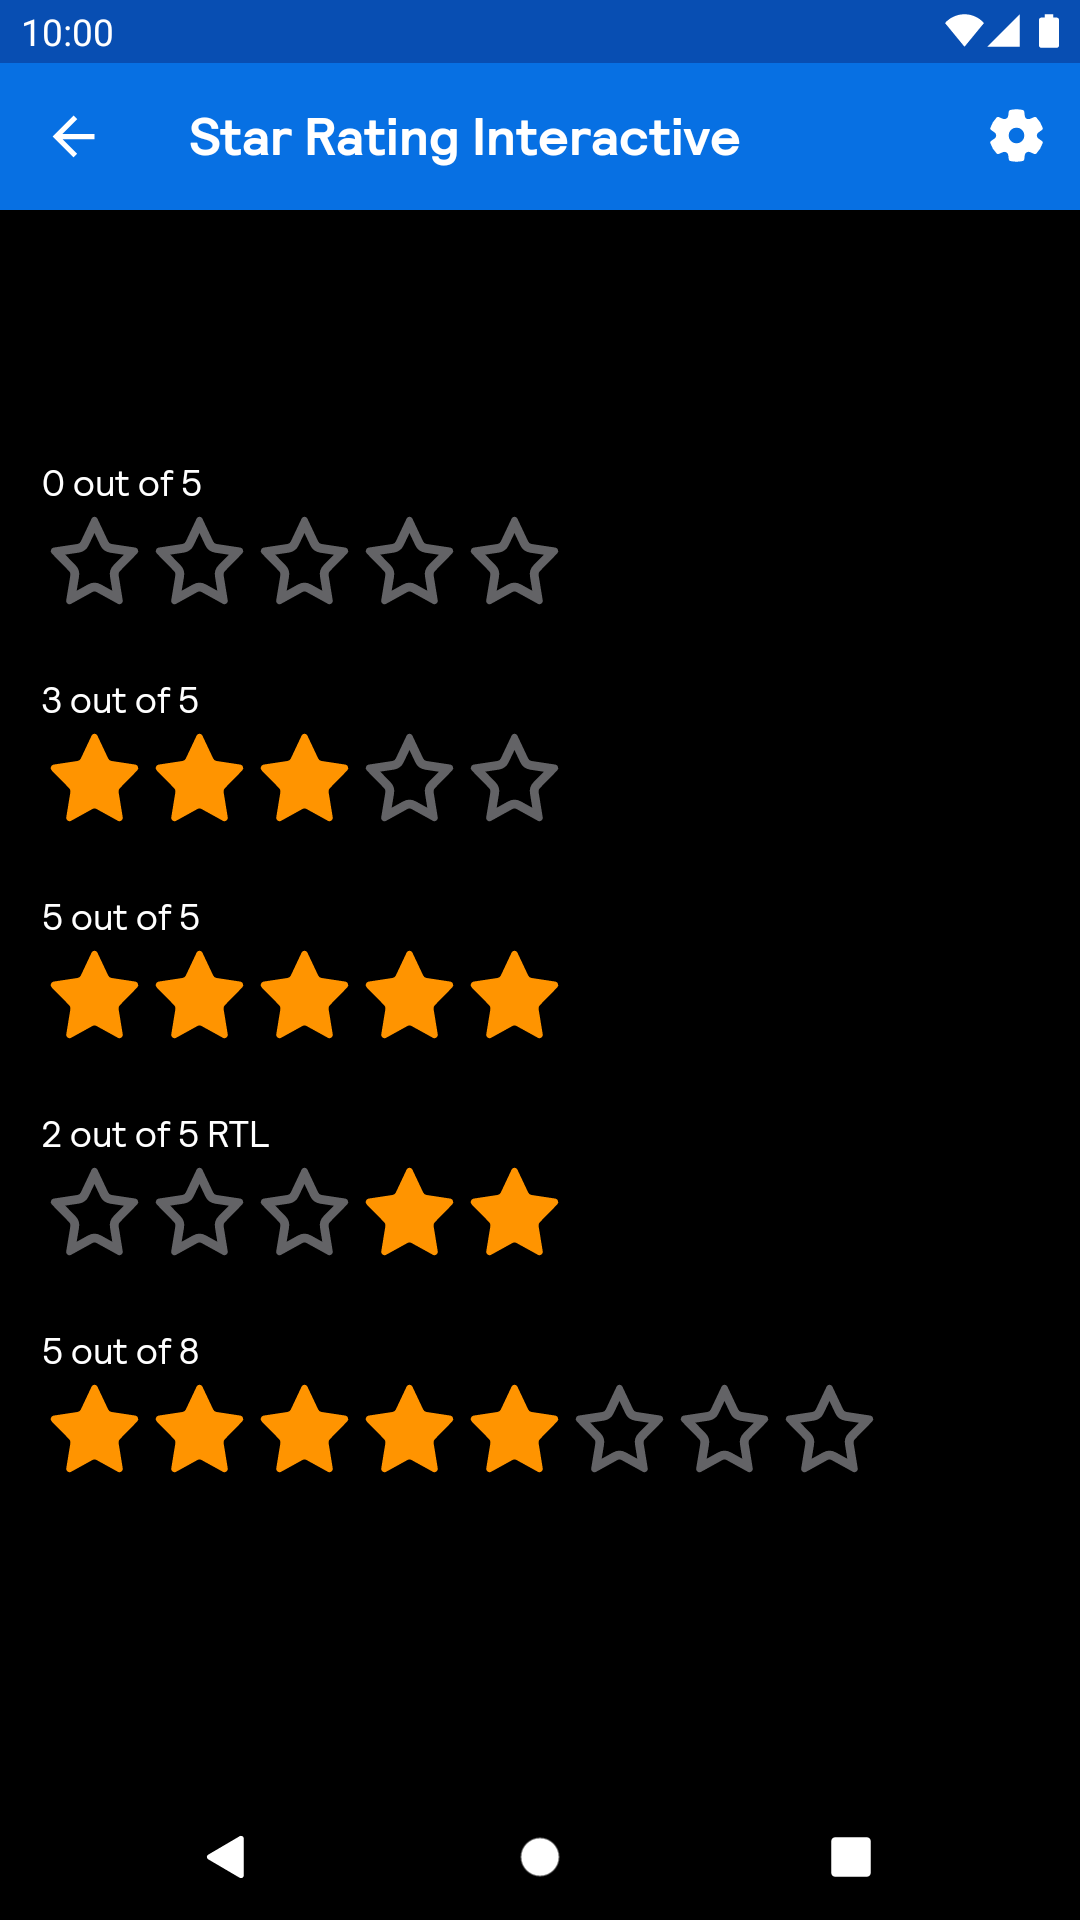
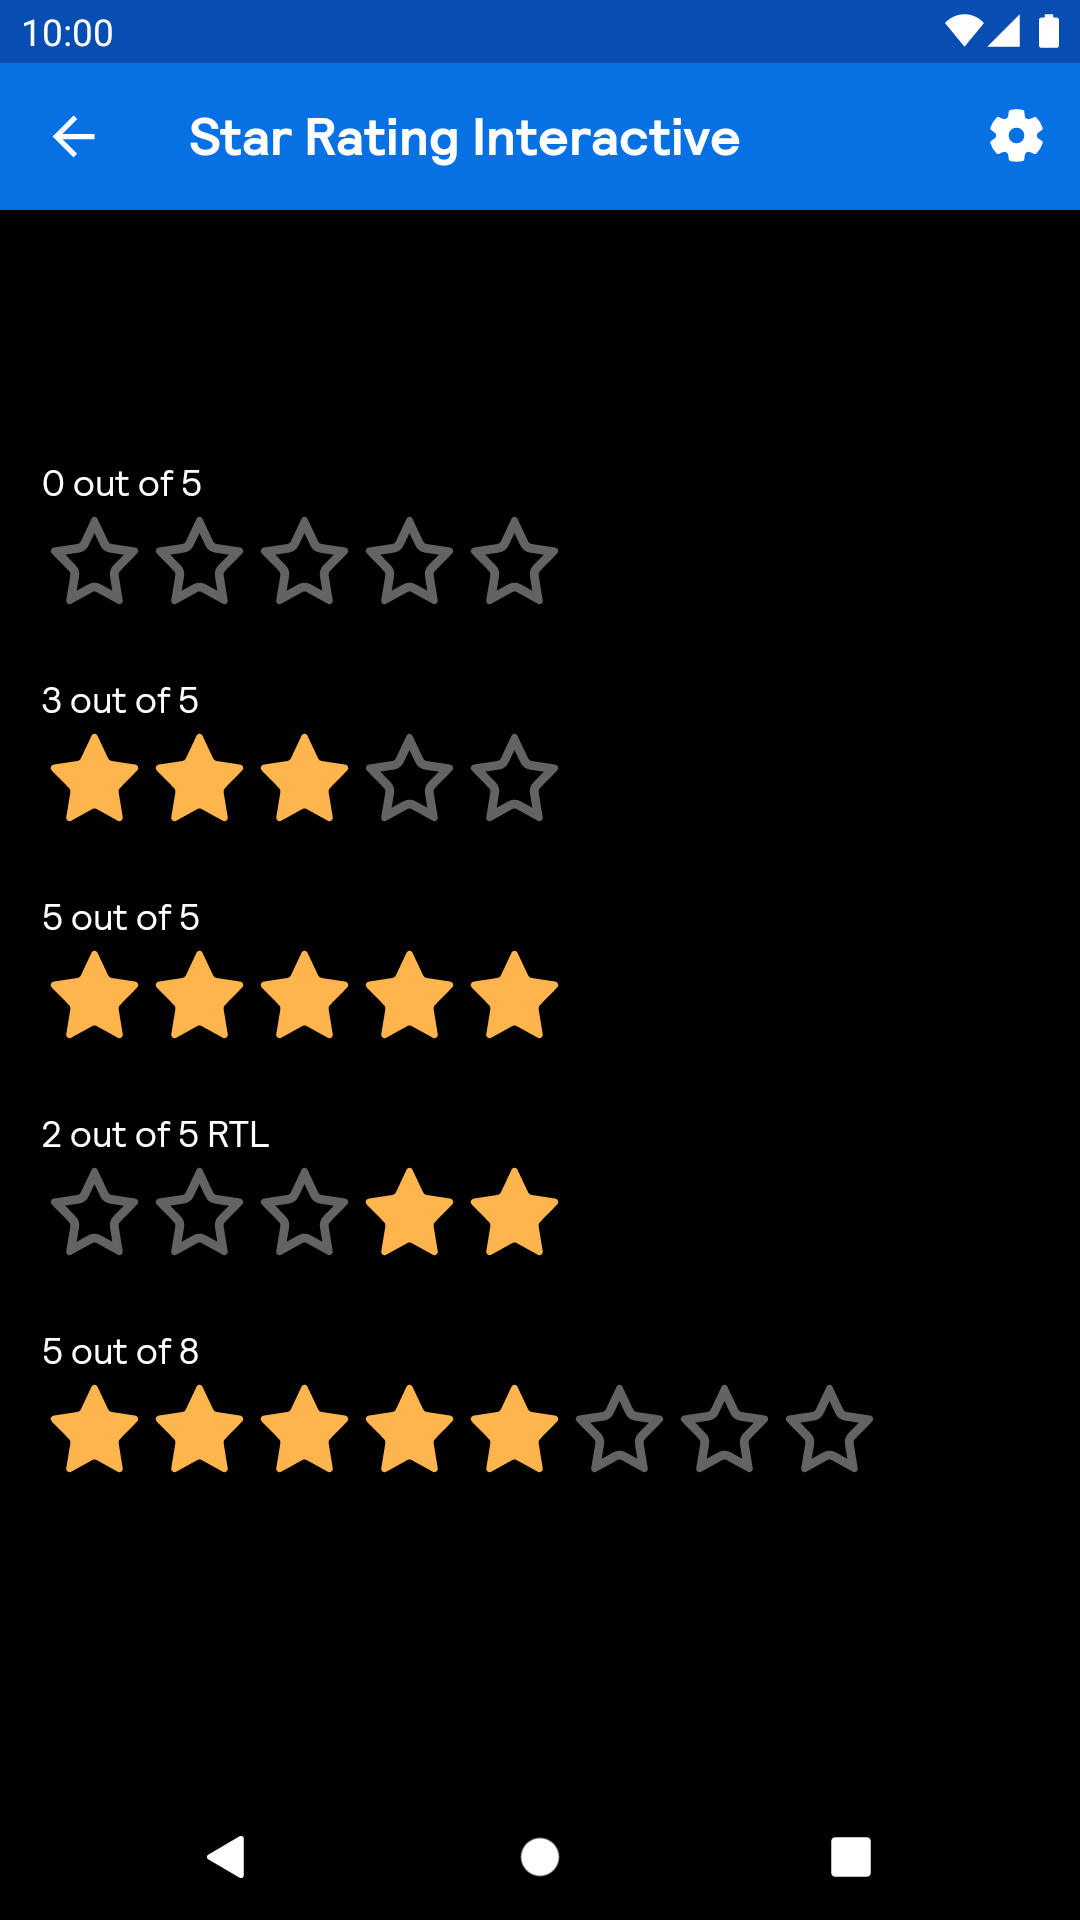
Updated BpkRating colours.

diff --git a/Backpack/src/main/java/net/skyscanner/backpack/starrating/internal/BpkStarRatingBase.kt b/Backpack/src/main/java/net/skyscanner/backpack/starrating/internal/BpkStarRatingBase.kt
@@ -70,7 +70,7 @@ open class BpkStarRatingBase internal constructor(
   init {
     orientation = HORIZONTAL
     var starColor = ContextCompat.getColor(context, R.color.__starRatingStarColor)
-    var starFilledColor: Int = ContextCompat.getColor(context, R.color.bpkKolkata)
+    var starFilledColor: Int = ContextCompat.getColor(context, R.color.__starRatingStarColorFilled)
 
     context.theme.obtainStyledAttributes(
       attrs,

diff --git a/UNRELEASED.md b/UNRELEASED.md
@@ -2,6 +2,9 @@
 
 > Place your changes below this line.
 
+**Updated:**
+  - `BpkRating` DM colours
+
 ## How to write a good changelog entry
 
 1. Add 'Breaking', 'Added' or 'Fixed' in bold depending on if the change will be major, minor or patch according to [semver](semver.org).
